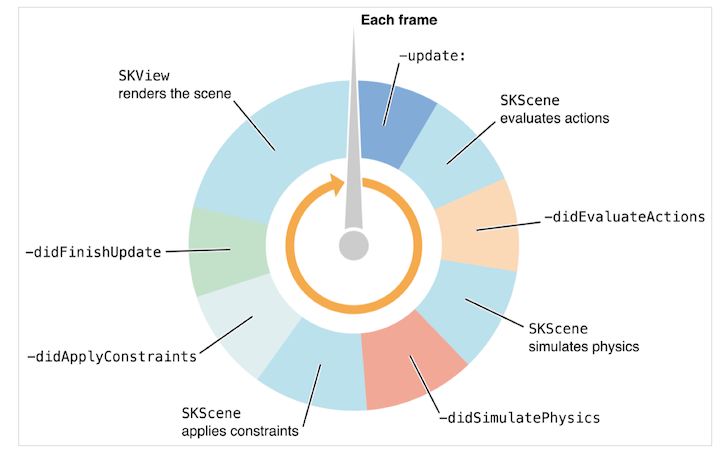
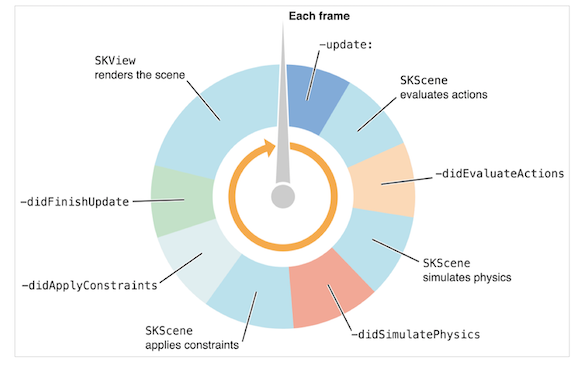
L01: adjusted img size

diff --git a/Lessons/01-Intro-iOS-Game-Development/Lesson1.md b/Lessons/01-Intro-iOS-Game-Development/Lesson1.md
@@ -33,7 +33,7 @@ Explain why students should care to learn the material presented in this class.
 <!-- Briefly explain SpriteKit, show its historical antecedents: i.e., "before spritekit..." -->
 
 
-### Review of key concepts & classes
+### Quick Review: Key Classes & Concepts
 
 #### Nodes (Sprites)
 Nodes are the building blocks of SpriteKit.
@@ -80,8 +80,6 @@ A scene is the root node in a tree of SpriteKit nodes. This tree of nodes provid
 
 You can display or present a scene &mdash; that is, a collection of sprites &mdash; from inside an `SKView`, `SKRenderer`, or `WKInterfaceSKScene` object.
 
-
-
 #### Positioning
 The position of a sprite is controlled by its `position` property, which is a CGPoint (a simple struct that has two properties of its own: x and y).
 
@@ -115,7 +113,7 @@ https://hackernoon.com/swift-spritekit-basics-94b1798ab639
   myCoolSprite.position = CGPoint(x: 100, y: 100)
 ```
 
-##### Notes on Positioning
+##### Positioning Notes
 
 1. When you set the position of a sprite, by default you are positioning the center of the sprite (but this can be changed by setting the sprite's `anchorPoint`).
 
@@ -153,6 +151,16 @@ Example illustrates creation of a simple, colored rectangle sprite. All you need
 
 
 #### Game loop (timing & frames)
+
+**Frame Rates**
+
+<!-- We want to optimize frame rates... -->
+
+
+ <!-- Frame rate: Controls the rate of the animation in frames per second. Set this to 0 as this only applies when using an image that contains multiple frames. -->
+
+
+
 Like most game engines, SpriteKit runs an endless rendering loop &mdash; often called a "game loop" &mdash; to render and update the screen.
 
 ![game_loop_frame-cycle_functions](assets/game_loop_frame-cycle_functions.png) </br>
@@ -168,7 +176,23 @@ Steps in rendering each scene typically include:
 5. Render the scene
 
 
+
+<!-- SCNSceneRendererDelegate render loop protocol -->
+
+
 <!-- TODO: add timing and frame info -->
+
+
+
+
+<!-- Notes on Frame Rates:
+ Also note that SceneKit performs much better on physical devices than it does in the simulator, so your frame rates will appear lower than expected when running your game in the simulator. -->
+
+
+ Frame time: This is the total amount of time it took to draw a single frame. A frame
+time of 16.7ms is required to achieve a frame rate of 60fps.
+
+
 
 
 
